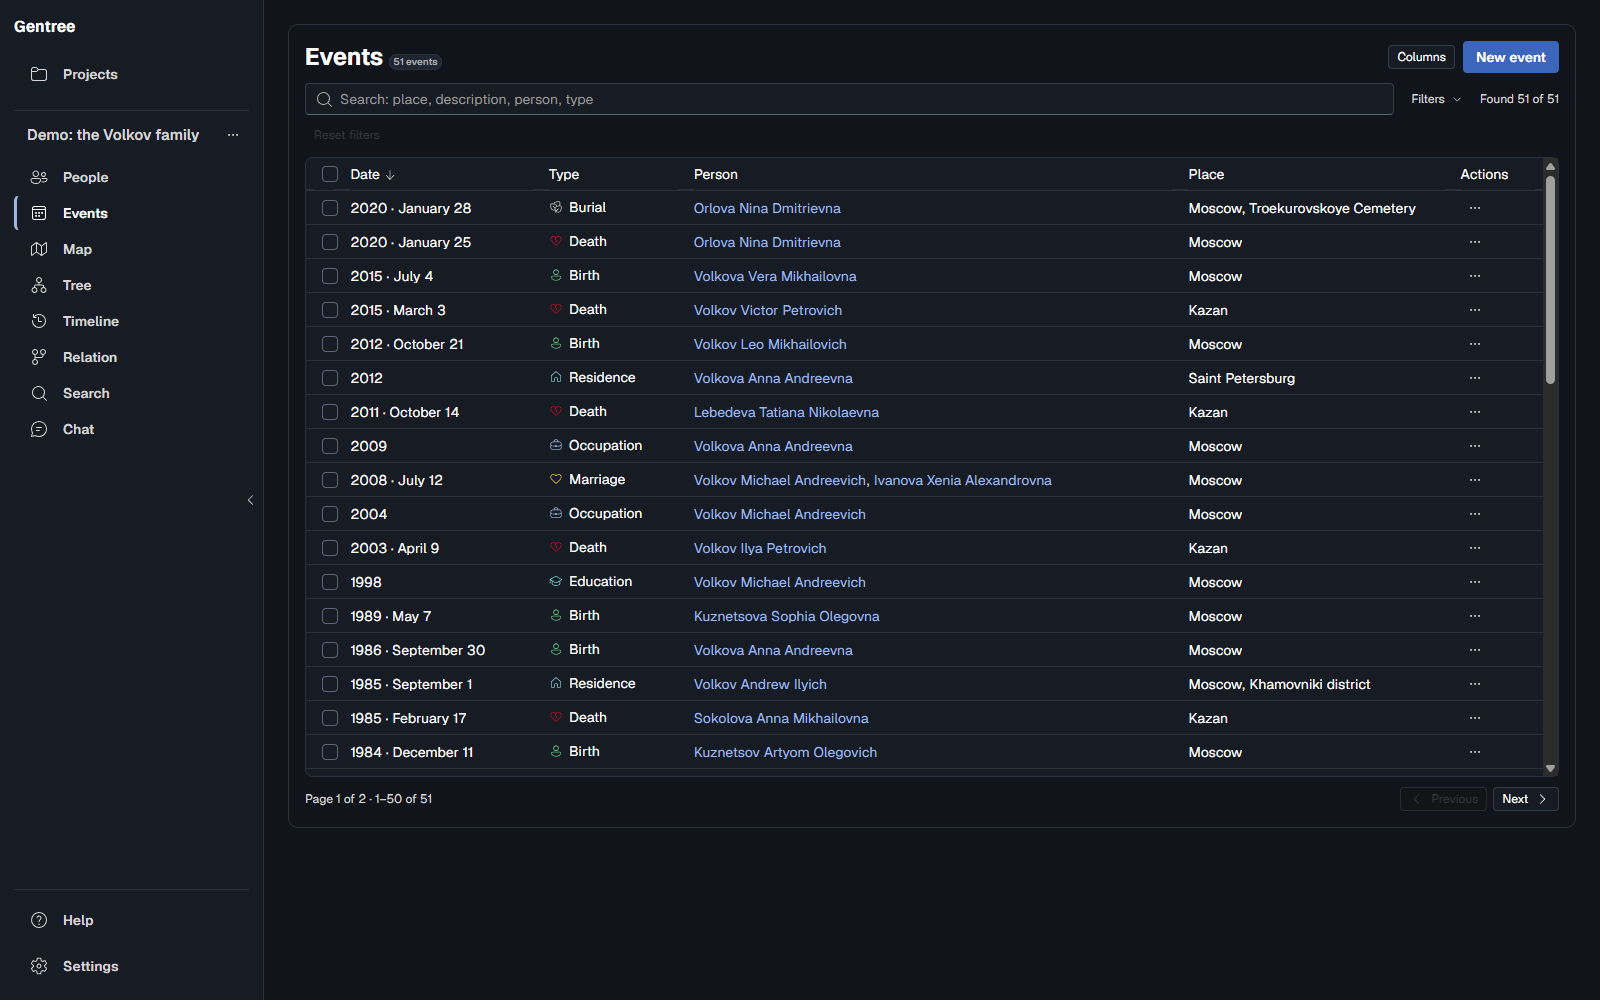
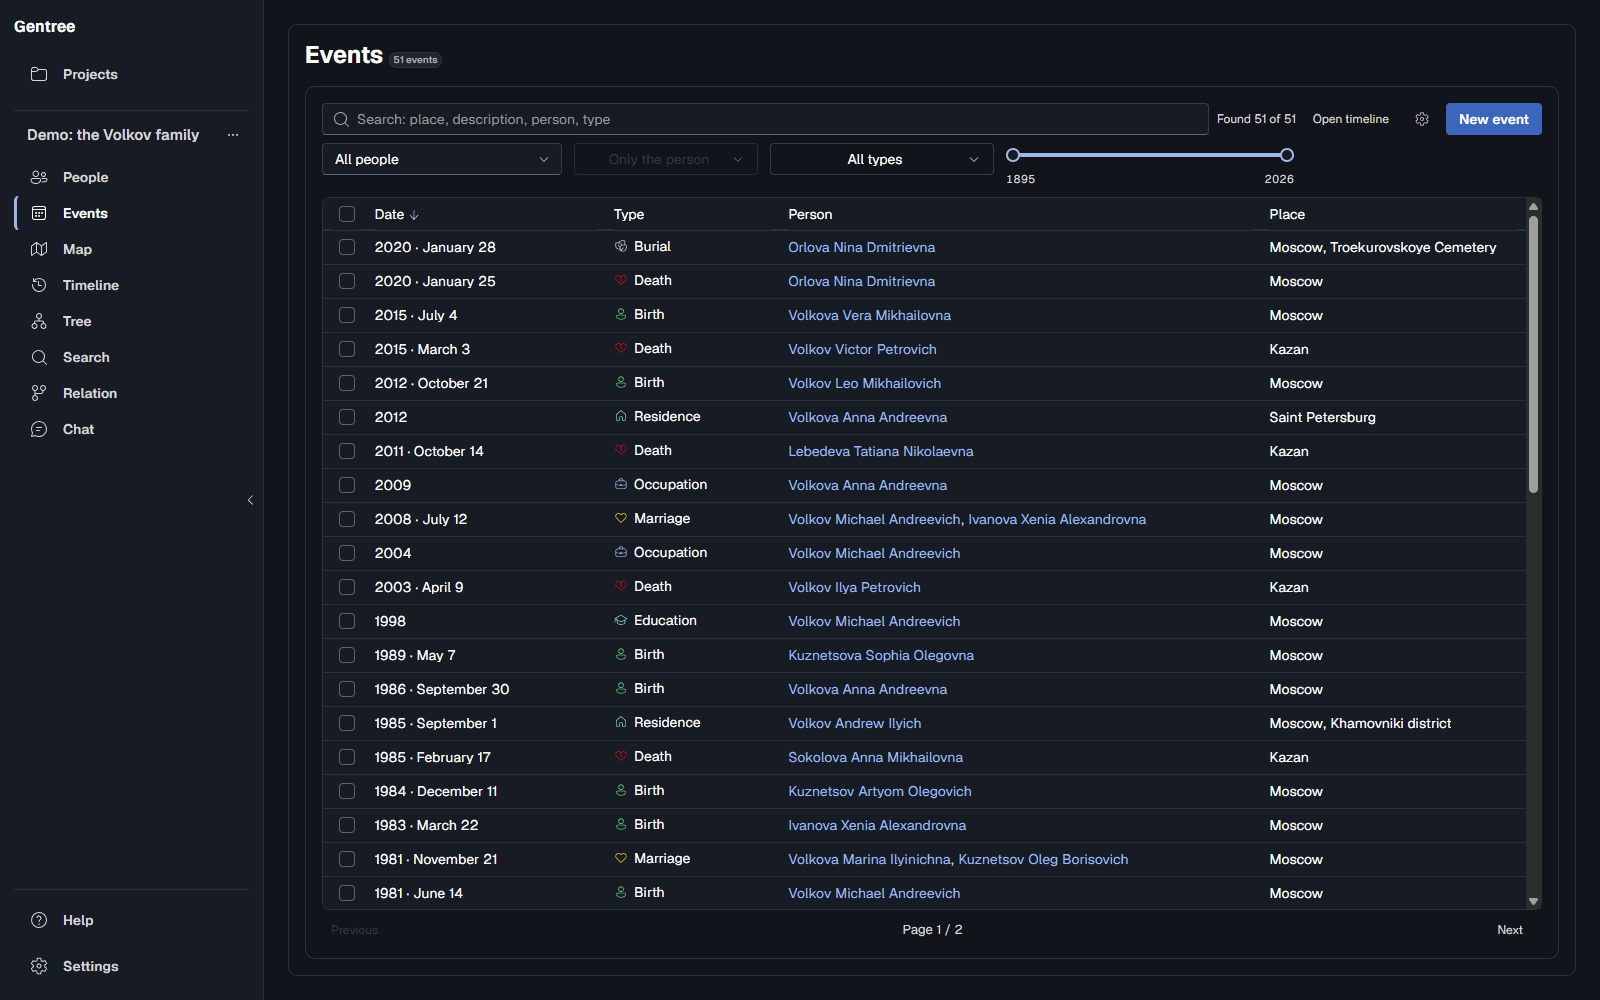
chore(release): 0.4.0

diff --git a/README.md b/README.md
@@ -55,8 +55,10 @@ project folder, your data.
 - **A tree that stays readable.** Ancestors, descendants and blood relatives
   are laid out as separate families instead of one tangle of lines, and any
   person can be labelled with their kinship to the root you pick.
-- **A timeline.** Dated events sit on a zoomable scale with
-  filters by person, type, place and year. Undated facts stay in their own list
+- **A timeline.** Dated events sit on a zoomable scale, and Events, Map and
+  Timeline share one filter row: person, relation (ancestors, descendants or
+  both), event types and years. Jump from a person's events straight to the
+  timeline and back with the same filters. Undated facts stay in their own list
   instead of being guessed into place.
 - **Bring your existing research.** Import AT5 archives and GEDCOM 5.5.1 or
   7.0 files, merge projects, export to either GEDCOM version, and exchange
@@ -68,16 +70,16 @@ project folder, your data.
 
 | Area | What you get |
 | --- | --- |
-| **People** | Several names per person (including birth surnames), patronymics, gender, notes, external IDs, avatars, and a fast sortable table with a detail card. |
-| **Events** | Birth, death, marriage, divorce, burial, residence, occupation, education and your own types. Day, month, year or unknown precision, places with address suggestions and historical-name matching, extra fields per event type, participants. |
-| **Timeline** | A zoomable timeline of dated events, filterable by person, type, place and year. Events without a date go into a separate list rather than being guessed into place. |
-| **Map** | Events with a confirmed place on a pan/zoom map, filtered by a year range. Points group by place and cluster when zoomed out; opening the map makes no network request. |
+| **People** | Several names per person (including birth surnames), patronymics, gender, notes, external IDs, avatars, and a fast sortable table with a detail card that collects facts such as occupations from occupation events. |
+| **Events** | Birth, death, marriage, divorce, burial, residence, occupation, education and your own types. Day, month, year or unknown precision, places with address suggestions and historical-name matching, extra fields per event type, participants. A row click opens a read-only card with every field, the people and the files, and **Edit** opens the full form. |
+| **Timeline** | A zoomable timeline of dated events, filtered by person, relation, event type and year; the same filter row works on Events, Map and Timeline, and **Go to timeline** carries it over from Events. Events without a date go into a separate list rather than being guessed into place. |
+| **Map** | Events with a confirmed place on a pan/zoom map, filtered by person, relation, type, year and the search phrase. Points group by place and cluster when zoomed out; opening the map makes no network request. |
 | **Tree and kinship** | Ancestor, descendant and blood-relative views, spouse pairs, adoption links, and kinship labels relative to any root. The rootless whole-project forest is an experimental mode behind a settings flag. |
 | **Kinship mode** | Pick two people and see how they are related: the term, common ancestor, path length, alternative paths and a diagram. |
 | **Search** | Instant search over names, biographies, event descriptions, places and sources, backed by a local Tantivy index. |
 | **Media** | Attach photos and documents, pick a profile photo, open files in your system viewer, save copies. Files are checksummed, and removing a link never deletes the file itself. |
 | **Import and exchange** | Read-only AT5 import (the Drevo Zhizni program format), GEDCOM 5.5.1/7.0 import and export (5.5.1 by default), project merge with a review step, JSON/ZIP export and import, automatic backups with restore. |
-| **Data quality** | Checks for duplicate IDs, dangling references, relationship rules, duplicate birth and death events, and a lifespan check when you add or edit an event. |
+| **Data quality** | Checks for duplicate IDs, dangling references, relationship rules, duplicate birth and death events, and a lifespan check when you add or edit an event; the results open in a dialog from the problem badge. |
 | **AI assistant (optional)** | Any OpenAI-compatible endpoint, streaming answers, 14 in-process read tools (search, people, events, sources, ancestors, timeline, path, kinship, validation, backups) and an opt-in person-edit tool. 12 embedded skills guide the model through genealogy tasks; every write is dry-run and confirmed first. |
 | **Guide and version** | An offline user guide with search and an "ask the assistant" hand-off, plus the installed version in Settings → About. |
 | **Languages** | Russian, Ukrainian, Belarusian, English, German and Spanish. |
@@ -89,23 +91,22 @@ project folder, your data.
 | People | Person card |
 | --- | --- |
 | ![People list with green and red ages, parents and actions](docs/screenshots/en/people.png) | ![Person card with facts, events and family sections](docs/screenshots/en/person-card.png) |
+| **Events** | **Event card** |
+| ![Event table with the shared filter row, types, dates, people and places](docs/screenshots/en/events.png) | ![Event card with date, place, participants and files](docs/screenshots/en/event-card.png) |
 | **Ancestors** | **Descendants** |
 | ![Ancestor tree with kinship labels and spouse lines](docs/screenshots/en/tree-ancestors.png) | ![Descendant tree with each family in its own branch](docs/screenshots/en/tree-descendants.png) |
-| **Events** | **Timeline** |
-| ![Event table with types, dates, people and places](docs/screenshots/en/events.png) | ![Zoomable timeline of dated events](docs/screenshots/en/timeline.png) |
+| **Timeline** | **Map** |
+| ![Zoomable timeline of dated events with the shared filters](docs/screenshots/en/timeline.png) | ![Map of the synthetic demo project with clustered event points around Kazan, Moscow and Saint Petersburg](docs/screenshots/en/map.png) |
 | **Kinship** | **Search a biography** |
 | ![Kinship mode: term, common ancestor, path and diagram](docs/screenshots/en/kinship.png) | ![Search by a phrase from a biography, with the match highlighted](docs/screenshots/en/search-biography.png) |
 
+Events, Map and Timeline keep the same filter row, so a person, a relation, a
+type or a year range survives switching between them. Map points group by place
+and cluster when zoomed out; opening the map makes no network request until it
+draws the optional online tiles.
+
 In the English demo project, searching for `keeper` finds the biography of the
 family's archive keeper; searching for `missing` also finds the death record.
-
-### Map
-
-Events with a confirmed point on a pan-and-zoom map, filtered by year. Points
-group by place and cluster when zoomed out; opening the tab makes no network
-request until it draws the optional online tiles.
-
-<p align="center"><img src="docs/screenshots/en/map.png" alt="Map of the synthetic demo project with clustered event points around Kazan, Moscow and Saint Petersburg" width="100%"></p>
 
 ## An AI assistant, built in
 

diff --git a/CHANGELOG.md b/CHANGELOG.md
@@ -4,6 +4,48 @@ All notable changes to Gentree are documented here. The format follows
 [Keep a Changelog](https://keepachangelog.com/en/1.1.0/) and the project uses
 [Semantic Versioning](https://semver.org/).
 
+## [0.4.0] — 2026-11-03
+
+One filter row across Events, Map and Timeline, a card for every event, and a
+straight path from a person's events to the timeline.
+
+### Added
+
+- An event card: a row click selects the event and shows it in a side panel with
+  every field, the participants and the files; **Edit** opens the full form.
+- A **relation** filter shared by Events, Map and Timeline: only the person,
+  ancestors, descendants, or ancestors and descendants. It is built from the
+  existing parent-child links, with no invented relations.
+- **Go to timeline** on Events carries the current search and filters into the
+  timeline, and the breadcrumb returns to Events with the same filters.
+- An **Occupation** fact on a person, collected from occupation events as plain
+  text in timeline order.
+- The data check opens in a dialog from the problem badge, so Events stays on
+  screen.
+- The ancestors and descendants walk on the timeline has a depth limit.
+
+### Changed
+
+- Events, Map and Timeline share one filter header and one filter model, so a
+  filter set once follows the user between the three views.
+- Event types are one searchable multi-select with the table icons, keyboard
+  navigation and the same "All types" semantics everywhere.
+- The timeline's scope pills are replaced by the shared relation select; the
+  Map is drawn inside the same panel as Events, with the title and counters
+  above the filters.
+- The resizable split between the list and the card is shared with People and
+  its width is remembered.
+- The project menu is ordered People, Events, Map, Timeline, Tree, Search,
+  Kinship, Chat; the tour follows the same order.
+
+### Fixed
+
+- The keyboard stays in the type dropdown after a mouse click, so arrows and
+  Escape keep working.
+- Person filter photos load once per screen, and a broken media library no
+  longer hides the events.
+- Empty year ranges collapse to a single label instead of a dead slider.
+
 ## [0.3.0] — 2026-11-02
 
 One look across the project screens, calmer settings and help, and a single
@@ -124,6 +166,7 @@ Windows SmartScreen or macOS Gatekeeper may ask for confirmation on first launch
 - The "Show from selected" and "Show siblings" tree buttons. The root picker
   already chooses the person the tree is built from.
 
+[0.4.0]: ../../releases/tag/v0.4.0
 [0.3.0]: ../../releases/tag/v0.3.0
 [0.2.1]: ../../releases/tag/v0.2.1
 [0.2.0]: ../../releases/tag/v0.2.0
